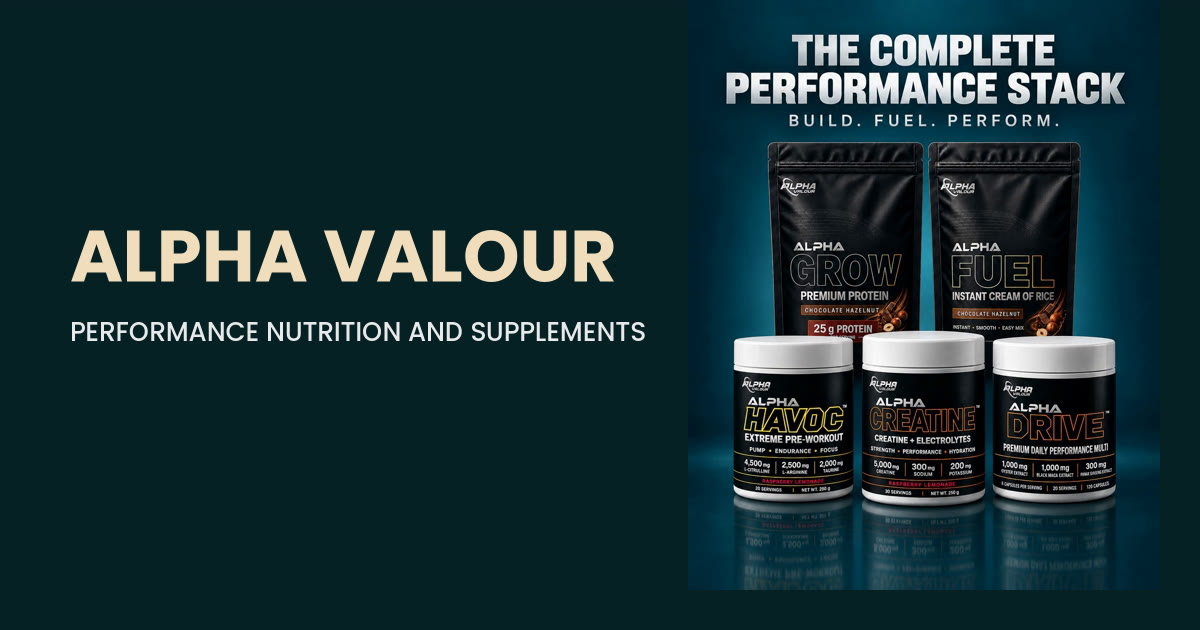
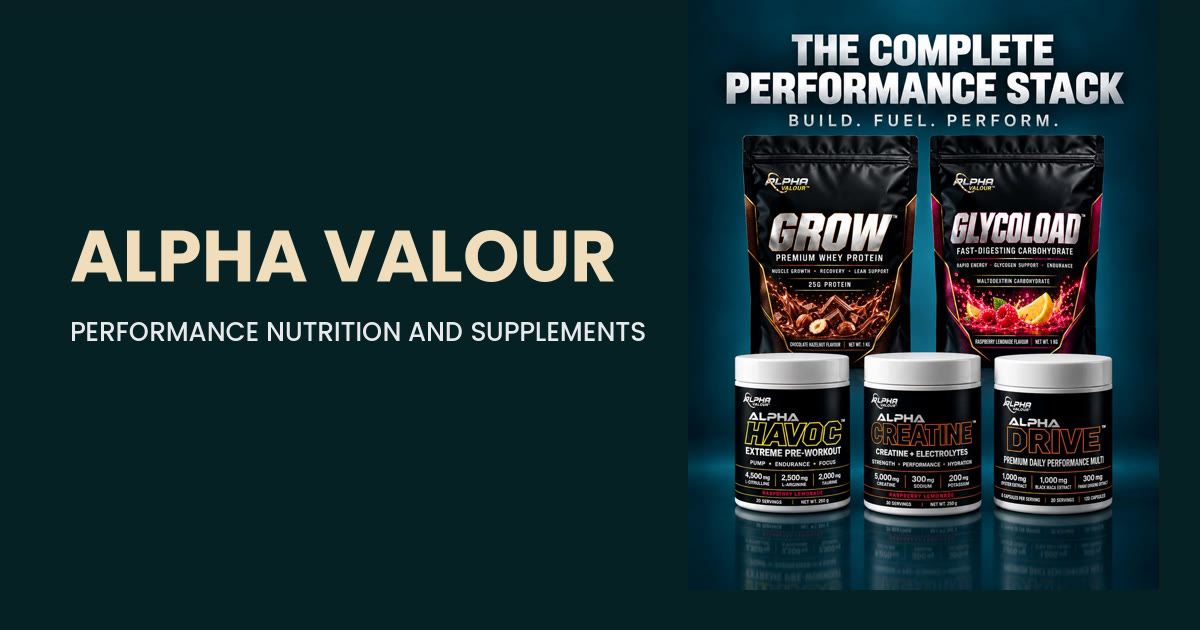
Add GLYCOLOAD launch pricing, /product/fuel redirect, refresh sitemap

Changed region(s): [[0.5858, 0.0603, 0.9558, 0.9048], [0.8942, 0.8746, 0.925, 0.9048]]

diff --git a/src/lib/productData.js b/src/lib/productData.js
@@ -8,7 +8,7 @@ import alphaDrive from "@/assets/products/alpha-drive.jpg";
 import alphaDriveFacts from "@/assets/products/alpha-drive-facts.jpg";
 import alphaCreatine from "@/assets/products/alpha-creatine.jpg";
 import alphaGrow from "@/assets/products/alpha-grow.jpg";
-import alphaFuel from "@/assets/products/alpha-fuel.jpg";
+import alphaGlycoload from "@/assets/products/alpha-glycoload.jpg";
 import alphaStack from "@/assets/products/alpha-stack.jpg";
 import tshirtBlack from "@/assets/products/tshirt-black.jpeg";
 import tshirtWhite from "@/assets/products/tshirt-white.jpeg";
@@ -21,7 +21,7 @@ import alphaNightRecovery from "@/assets/products/alpha-night-recovery.jpg";
 //   category: "supplement" | "apparel" | "stack",
 //   image, supplement_facts_image?,
 //   inStock: boolean,
-//   price,
+//   price, compare_at_price?,
 //   benefits?: string[], ingredients?: string[],
 //   servings?, size?, usage?,
 //   colors?: string[], sizes?: string[], fit?: string,
@@ -46,16 +46,17 @@ export const PRODUCTS = [
       "Buffers muscular fatigue during high-intensity sets",
       "Clean, dosed stimulation without the crash",
     ],
-    // Dosages below follow the confirmed front-of-bottle values (matches
-    // the current product label photo).
+    // Dosages below match the Supplement Facts panel.
     ingredients: [
       "L-Citrulline — 4500mg",
       "L-Arginine — 2500mg",
       "Taurine — 2000mg",
+      "L-Theanine — 150mg",
+      "Caffeine Anhydrous — 150mg",
     ],
     servings: "20 servings",
     size: "200g · Raspberry Lemonade",
-    usage: "Mix 1 scoop (10g) with water 20–30 minutes before training.",
+    usage: "Mix 1 scoop with water 20–30 minutes before training.",
     sort_order: 1,
   },
   {
@@ -135,25 +136,32 @@ export const PRODUCTS = [
     sort_order: 4,
   },
   {
-    id: "fuel",
+    id: "glycoload",
     inStock: true,
-    slug: "fuel",
-    name: "FUEL",
-    tagline: "Instant Cream of Rice",
+    slug: "glycoload",
+    name: "GLYCOLOAD",
+    tagline: "Fast-Digesting Carbohydrate",
     description:
-      "A fast-digesting, low-fibre carbohydrate source in a smooth instant cream of rice — Chocolate Hazelnut flavour, easy mix, built to refill glycogen around training.",
+      "A fast-digesting maltodextrin carbohydrate powder for athletes and gym users who need convenient training fuel — Raspberry Lemonade flavour, mixes easily with water, use before, during or after training.",
     category: "supplement",
-    image: alphaFuel,
+    image: alphaGlycoload,
+    // Launch pricing: selling at 39.99, regular RRP 44.99. The
+    // compare_at_price renders as a struck-through "was" price next to the
+    // live price; remove this field to end the launch offer.
     price: 39.99,
+    compare_at_price: 44.99,
     benefits: [
       "Fast-digesting carbohydrate source",
-      "Smooth, easy-mix texture",
-      "Supports glycogen resynthesis around training",
+      "Helps support muscle glycogen replenishment after exercise",
+      "Provides convenient training fuel",
+      "Suitable before, during or after training",
+      "Easy to mix with water or your favourite sports drink",
+      "Easy way to increase daily carbohydrate intake",
     ],
-    ingredients: ["Instant Cream of Rice — 40g"],
-    servings: "25 servings",
-    size: "1kg · Chocolate Hazelnut",
-    usage: "Mix with water immediately before or after training.",
+    ingredients: ["Maltodextrin"],
+    servings: "1kg pouch",
+    size: "1kg · Raspberry Lemonade",
+    usage: "Mix the recommended serving with water and shake until fully dissolved. Can be used pre-workout, intra-workout or post-workout. Amount required depends on body weight, training duration and individual carbohydrate needs.",
     sort_order: 5,
   },
   {
@@ -250,7 +258,7 @@ export const PRODUCTS = [
     name: "The Complete Stack",
     tagline: "Complete Performance System",
     description:
-      "HAVOC, DRIVE, CREATINE, GROW and FUEL together as a complete performance system. Build. Fuel. Perform.",
+      "HAVOC, DRIVE, CREATINE, GROW and GLYCOLOAD together as a complete performance system. Build. Fuel. Perform.",
     category: "stack",
     image: alphaStack,
     price: 259.99,

diff --git a/src/pages/Stack.jsx b/src/pages/Stack.jsx
@@ -12,7 +12,7 @@ import { useSEO } from "@/hooks/useSEO";
 export default function Stack() {
   useSEO({
     title: "The Complete Stack",
-    description: "HAVOC, DRIVE, CREATINE, GROW and FUEL bundled as a complete performance nutrition system — a discounted one-time purchase for training, nutrition and recovery.",
+    description: "HAVOC, DRIVE, CREATINE, GROW and GLYCOLOAD bundled as a complete performance nutrition system — a discounted one-time purchase for training, nutrition and recovery.",
     path: "/stack",
   });
 
@@ -23,7 +23,7 @@ export default function Stack() {
   // The stack is a fixed bundle of these five products specifically — not
   // every product in the "supplement" category (which now also includes
   // ERECTAVO and ALPHA NIGHT RECOVERY, which aren't part of this bundle).
-  const STACK_PRODUCT_IDS = ["havoc", "drive", "creatine", "grow", "fuel"];
+  const STACK_PRODUCT_IDS = ["havoc", "drive", "creatine", "grow", "glycoload"];
   const supps = (products || []).filter((p) => STACK_PRODUCT_IDS.includes(p.id));
   const stack = (products || []).find((p) => p.category === "stack");
 
@@ -65,7 +65,7 @@ export default function Stack() {
           <div className="bg-av-deep p-8 md:p-10">
             <p className="text-[11px] uppercase tracking-[0.25em] text-av-alloy/50">Individual Value</p>
             <p className="font-display text-5xl font-bold text-av-alloy/60 mt-3 line-through">{formatNZD(individualValue)}</p>
-            <p className="text-sm text-av-alloy/50 mt-3">HAVOC + DRIVE + CREATINE + GROW + FUEL bought separately</p>
+            <p className="text-sm text-av-alloy/50 mt-3">HAVOC + DRIVE + CREATINE + GROW + GLYCOLOAD bought separately</p>
           </div>
           <div className="bg-av-gold text-av-deep p-8 md:p-10">
             <p className="text-[11px] uppercase tracking-[0.25em] text-av-deep/70">Stack Price</p>

diff --git a/src/lib/ingredientResearch.js b/src/lib/ingredientResearch.js
@@ -56,10 +56,15 @@ export const INGREDIENT_RESEARCH = {
     note: "Supplementing with ~20–40 g of high-quality protein post-exercise supports muscle protein synthesis. The International Society of Sports Nutrition recommends 1.4–2.0 g/kg/day for athletes.",
     ref: "Jäger et al., J Int Soc Sports Nutr. 2017.",
   },
-  "instant cream of rice": {
-    name: "Instant Cream of Rice",
-    note: "Rice is a low-fibre, rapidly digesting carbohydrate source. Carbohydrate availability before and after training supports glycogen resynthesis and training quality.",
-    ref: "Burke et al., Int J Sport Nutr Exerc Metab. 2011.",
+  "l-theanine": {
+    name: "L-Theanine",
+    note: "L-Theanine is an amino acid found in tea leaves, commonly paired with caffeine in pre-workout formulas. Research suggests the combination supports focus and attention while smoothing out the jittery edge of stimulants alone.",
+    ref: "Haskell et al., Biol Psychol. 2008 (L-theanine and caffeine combination on cognition).",
+  },
+  "maltodextrin": {
+    name: "Maltodextrin",
+    note: "Maltodextrin is a fast-digesting carbohydrate derived from starch. It empties from the stomach quickly and is readily absorbed, making it a practical fuel source around training and a common choice for supporting muscle glycogen replenishment after exercise.",
+    ref: "Burke et al., J Sports Sci. 2011 (carbohydrates for training and competition).",
   },
   "oyster extract": {
     name: "Oyster Extract",

diff --git a/src/pages/Home.jsx b/src/pages/Home.jsx
@@ -230,7 +230,7 @@ export default function Home() {
               One system. Five products. Total performance.
             </h2>
             <p className="mt-5 md:mt-6 text-av-alloy/70 leading-relaxed max-w-lg text-sm md:text-base">
-              HAVOC, DRIVE, CREATINE, GROW and FUEL together as a complete performance system — supporting preparation, training, nutrition and recovery.
+              HAVOC, DRIVE, CREATINE, GROW and GLYCOLOAD together as a complete performance system — supporting preparation, training, nutrition and recovery.
             </p>
             <div className="mt-6 md:mt-8 flex items-baseline gap-4 flex-wrap">
               <span className="font-display text-4xl md:text-5xl font-bold text-av-gold">{formatNZD(stackPrice)}</span>

diff --git a/src/pages/ProductDetail.jsx b/src/pages/ProductDetail.jsx
@@ -127,6 +127,12 @@ export default function ProductDetail() {
             <div className="border-y border-av-teal/40 py-6">
               <div className="hidden md:flex items-baseline gap-3">
                 <span className="font-display text-4xl font-bold text-av-gold">{formatNZD(price)}</span>
+                {product.compare_at_price && product.compare_at_price > price && (
+                  <>
+                    <span className="text-lg text-av-alloy/40 line-through">{formatNZD(product.compare_at_price)}</span>
+                    <span className="text-[11px] uppercase tracking-[0.2em] text-emerald-400 font-semibold">Launch Price</span>
+                  </>
+                )}
               </div>
             </div>
 

diff --git a/src/components/ProductCard.jsx b/src/components/ProductCard.jsx
@@ -54,6 +54,12 @@ export default function ProductCard({ product, index = 0 }) {
             </div>
             <span>4.9 (128)</span>
           </div>
+          {product.compare_at_price && product.compare_at_price > product.price && (
+            <p className="mt-1.5 text-[11px] uppercase tracking-[0.15em]">
+              <span className="text-av-alloy/40 line-through">{formatNZD(product.compare_at_price)}</span>
+              <span className="ml-2 text-emerald-400 font-semibold">Launch Price</span>
+            </p>
+          )}
         </Link>
 
         {product.inStock === false ? (

diff --git a/src/pages/About.jsx b/src/pages/About.jsx
@@ -16,7 +16,7 @@ const FAQS = [
   },
   {
     q: "What is the Complete Performance Stack?",
-    a: "It's all five supplements — HAVOC, DRIVE, CREATINE, GROW and FUEL — bundled as a single one-time purchase at a discounted price of $259.99 (individual value $323.95).",
+    a: "It's all five supplements — HAVOC, DRIVE, CREATINE, GROW and GLYCOLOAD — bundled as a single one-time purchase at a discounted price of $259.99 (individual value $323.95).",
   },
   {
     q: "What sizes do the athletic T-shirts come in?",
